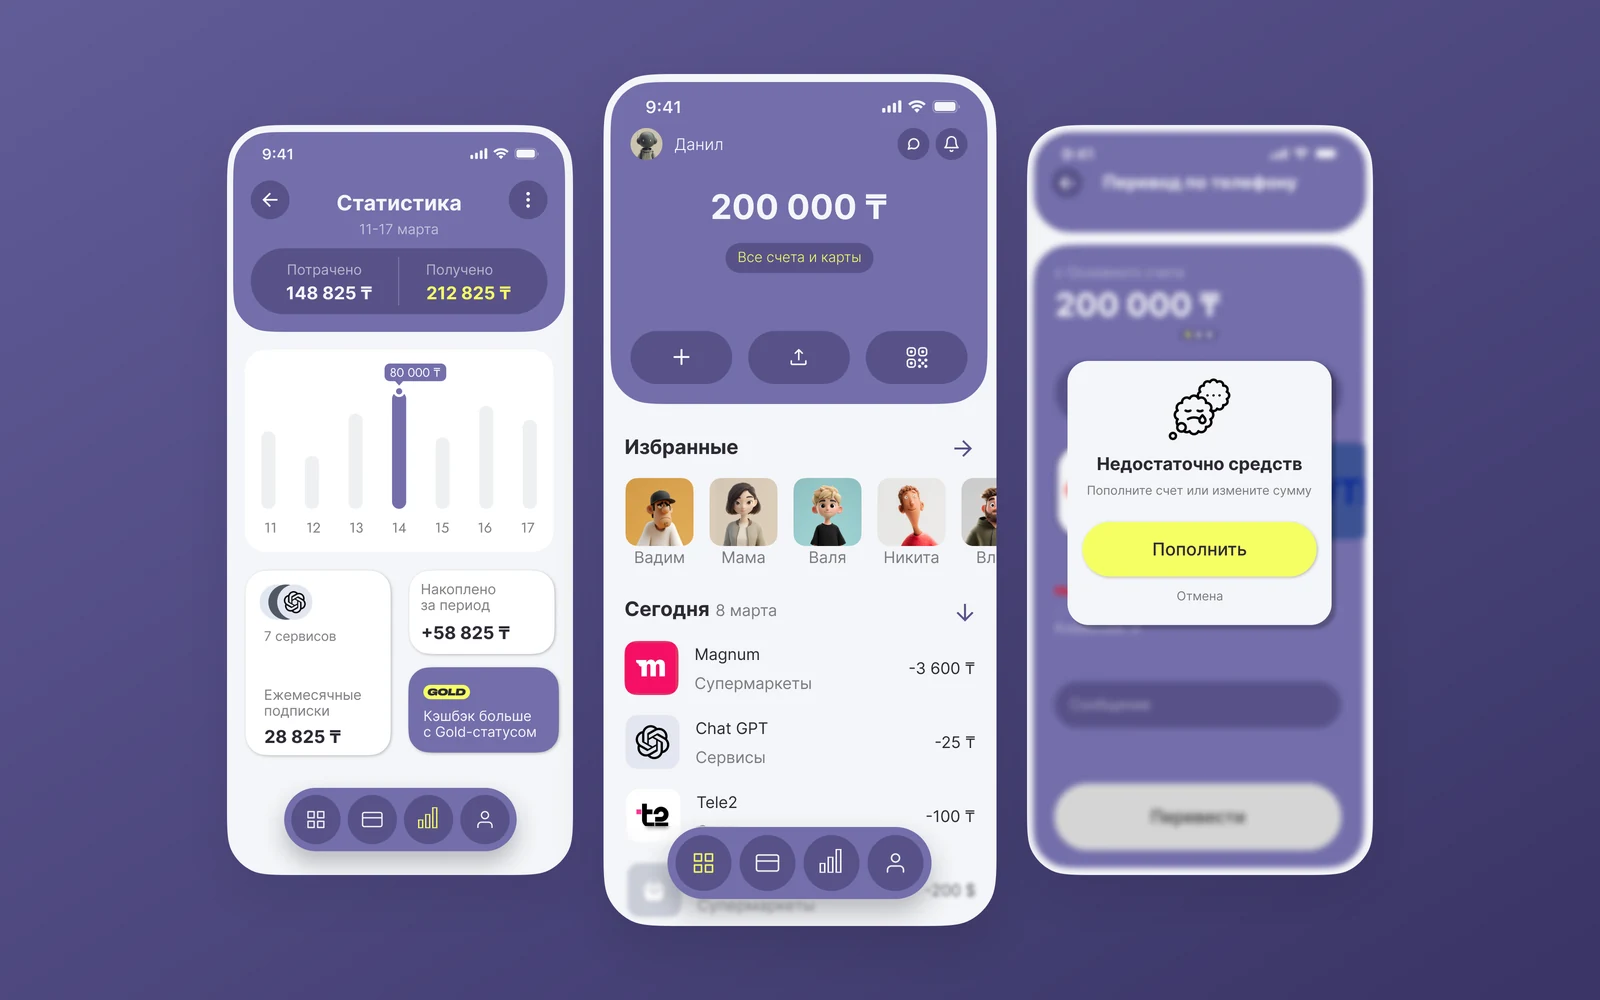
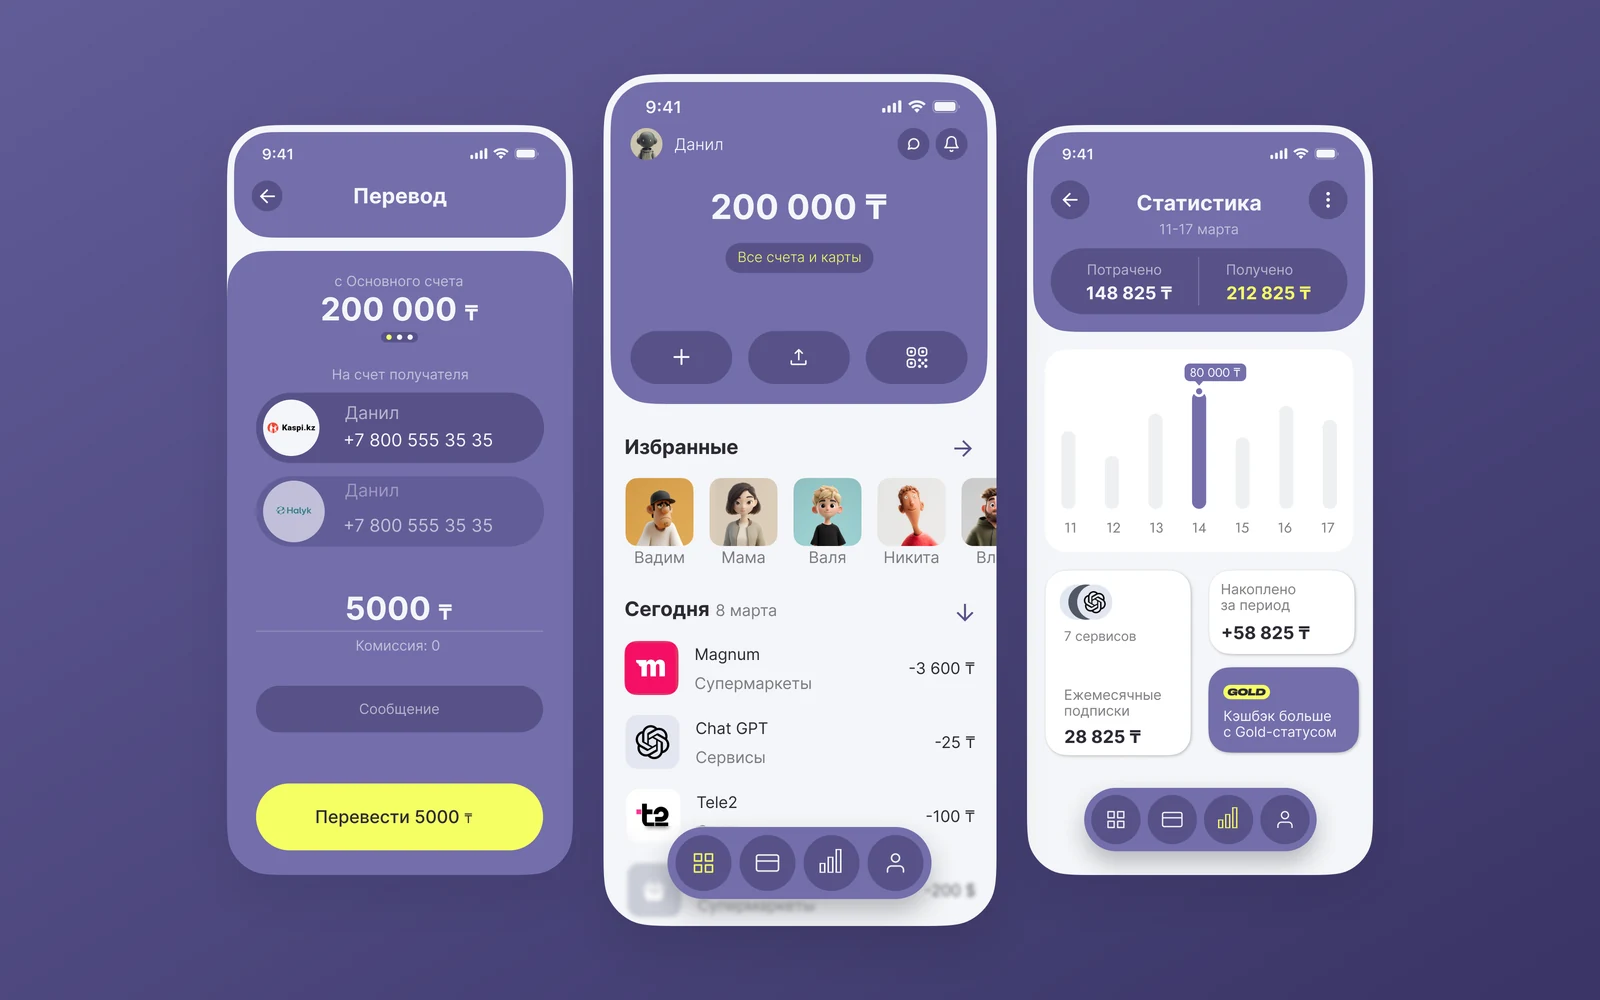
Add files via upload

Changed region(s): [[0.625, 0.124, 0.875, 0.868], [0.125, 0.186, 0.375, 0.899]]

diff --git a/bank.html b/bank.html
@@ -8,9 +8,9 @@
 <section class="hero"><div class="eyebrow">Кейс 02 <span class="badge">Концепт</span></div><h1>Банковское приложение</h1>
 <p class="lead">Перевод по номеру в три экрана и состояния, в которых пользователь не теряется.</p><dl class="facts"><div><dt>Платформа</dt><dd>iOS, 393×852</dd></div><div><dt>Инструменты</dt><dd>Figma</dd></div><div><dt>Роль</dt><dd>UX/UI: сценарии, прототип, интерфейс</dd></div><div><dt>Объём</dt><dd>15 экранов, карта переходов</dd></div></dl></section>
 <section class="sec"><h2>Задача</h2><p>Чтобы перевести деньги, в популярных банковских приложениях нужно пройти 5–7 экранов, а по пути предлагают кредит и страховку. Цель: приложение, где перевод, оплата и статистика доступны быстро и без раздражения.</p><p>Отдельная задача — продумать не только идеальный сценарий, но и тупики: нет интернета, не хватает средств, данные грузятся долго.</p></section>
-<section class="sec"><h2>Ключевые экраны</h2><div class="screens"><figure class="screen"><img src="img/bank/main.webp" alt="Главная" loading="lazy" onerror="this.closest('figure').remove()"><figcaption><b>Главная</b>Баланс и три действия под рукой: пополнить, перевести, QR. Ниже избранные контакты и последние операции.</figcaption></figure><figure class="screen"><img src="img/bank/transfer.png" alt="Перевод по номеру" loading="lazy" onerror="this.closest('figure').remove()"><figcaption><b>Перевод по номеру</b>Банк получателя определяется по номеру, выбирать его из списка не нужно: остаётся указать сумму и подтвердить.</figcaption></figure><figure class="screen"><img src="img/bank/stats.webp" alt="Статистика" loading="lazy" onerror="this.closest('figure').remove()"><figcaption><b>Статистика</b>Итоги периода, траты по дням и плитки с подписками и накоплениями: картина читается с первого взгляда.</figcaption></figure><figure class="screen"><img src="img/bank/insufficient.webp" alt="Недостаточно средств" loading="lazy" onerror="this.closest('figure').remove()"><figcaption><b>Недостаточно средств</b>Ошибка объясняет, что произошло, и сразу предлагает выход: пополнить счёт или изменить сумму.</figcaption></figure></div></section>
+<section class="sec"><h2>Ключевые экраны</h2><div class="screens"><figure class="screen"><img src="img/bank/main.webp" alt="Главная" loading="lazy" onerror="this.closest('figure').remove()"><figcaption><b>Главная</b>Баланс и три действия под рукой: пополнить, перевести, QR. Ниже избранные контакты и последние операции.</figcaption></figure><figure class="screen"><img src="img/bank/transfer.webp" alt="Перевод по номеру" loading="lazy" onerror="this.closest('figure').remove()"><figcaption><b>Перевод по номеру</b>Банк получателя определяется по номеру, выбирать его из списка не нужно: остаётся указать сумму и подтвердить.</figcaption></figure><figure class="screen"><img src="img/bank/stats.webp" alt="Статистика" loading="lazy" onerror="this.closest('figure').remove()"><figcaption><b>Статистика</b>Итоги периода, траты по дням и плитки с подписками и накоплениями: картина читается с первого взгляда.</figcaption></figure></div></section>
 <section class="sec"><h2>Главное решение</h2><div class="cmp"><div><b>Как обычно</b>5–7 экранов на перевод, выбор банка из списка, предложения кредита и страховки по пути.</div><div><b>В моём концепте</b>Три экрана: контакт → сумма → результат. Банк определяется по номеру, на каждом экране одно главное действие.</div></div></section>
-<section class="sec"><h2>Проработанные состояния</h2><ul class="chips"><li>Скелетон при загрузке</li><li>Ошибка сети</li><li>Недостаточно средств</li></ul></section>
+<section class="sec"><h2>Проработанные состояния</h2><div class="screens" style="margin-bottom:28px"><figure class="screen"><img src="img/bank/insufficient.webp" alt="Недостаточно средств" loading="lazy"><figcaption><b>Недостаточно средств</b>Ошибка объясняет, что произошло, и сразу предлагает выход: пополнить счёт или изменить сумму.</figcaption></figure></div><ul class="chips"><li>Скелетон при загрузке</li><li>Ошибка сети</li><li>Недостаточно средств</li></ul></section>
 <section class="sec"><h2>Схема переходов</h2><a class="flow" href="user.png" target="_blank"><img src="user.png" alt="Схема переходов" loading="lazy"></a>
 <p>Нажмите на схему, чтобы открыть её крупно. <a class="lnk" href="https://www.figma.com/design/nJAf8mpR50MvGdWCr15uyG/%D0%93%D0%BB%D0%B0%D0%B2%D0%BD%D1%8B%D0%B9-%D0%AD%D0%BA%D1%80%D0%B0%D0%BD?node-id=118-1814&amp;t=RAwkfPRFPJ0OoOZp-1" target="_blank">Файл в Figma</a></p></section>
 <section class="sec"><h2>Цель и как проверил бы</h2><p><b>Цель.</b> перевод по номеру за три экрана без выбора банка</p><p><b>Метрики успеха.</b> доля завершённых переводов, время от открытия до подтверждения, число ошибок на экране суммы</p><p><b>Как проверил бы.</b> юзабилити-тест на 5 пользователях по сценарию «переведи 5 000 ₸ знакомому по номеру», отдельно сценарий с нехваткой средств</p></section>
